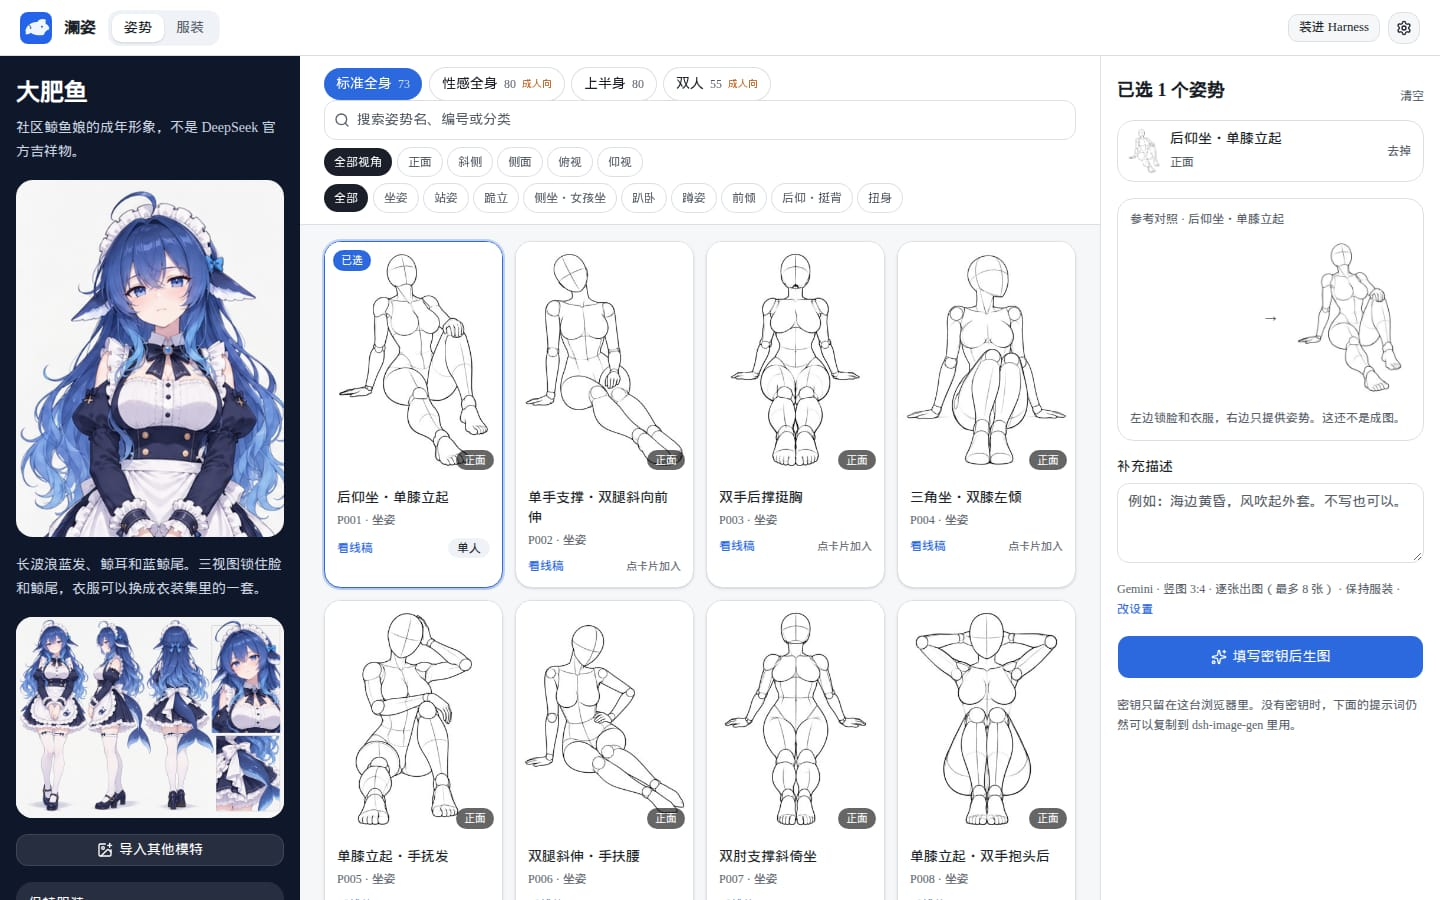
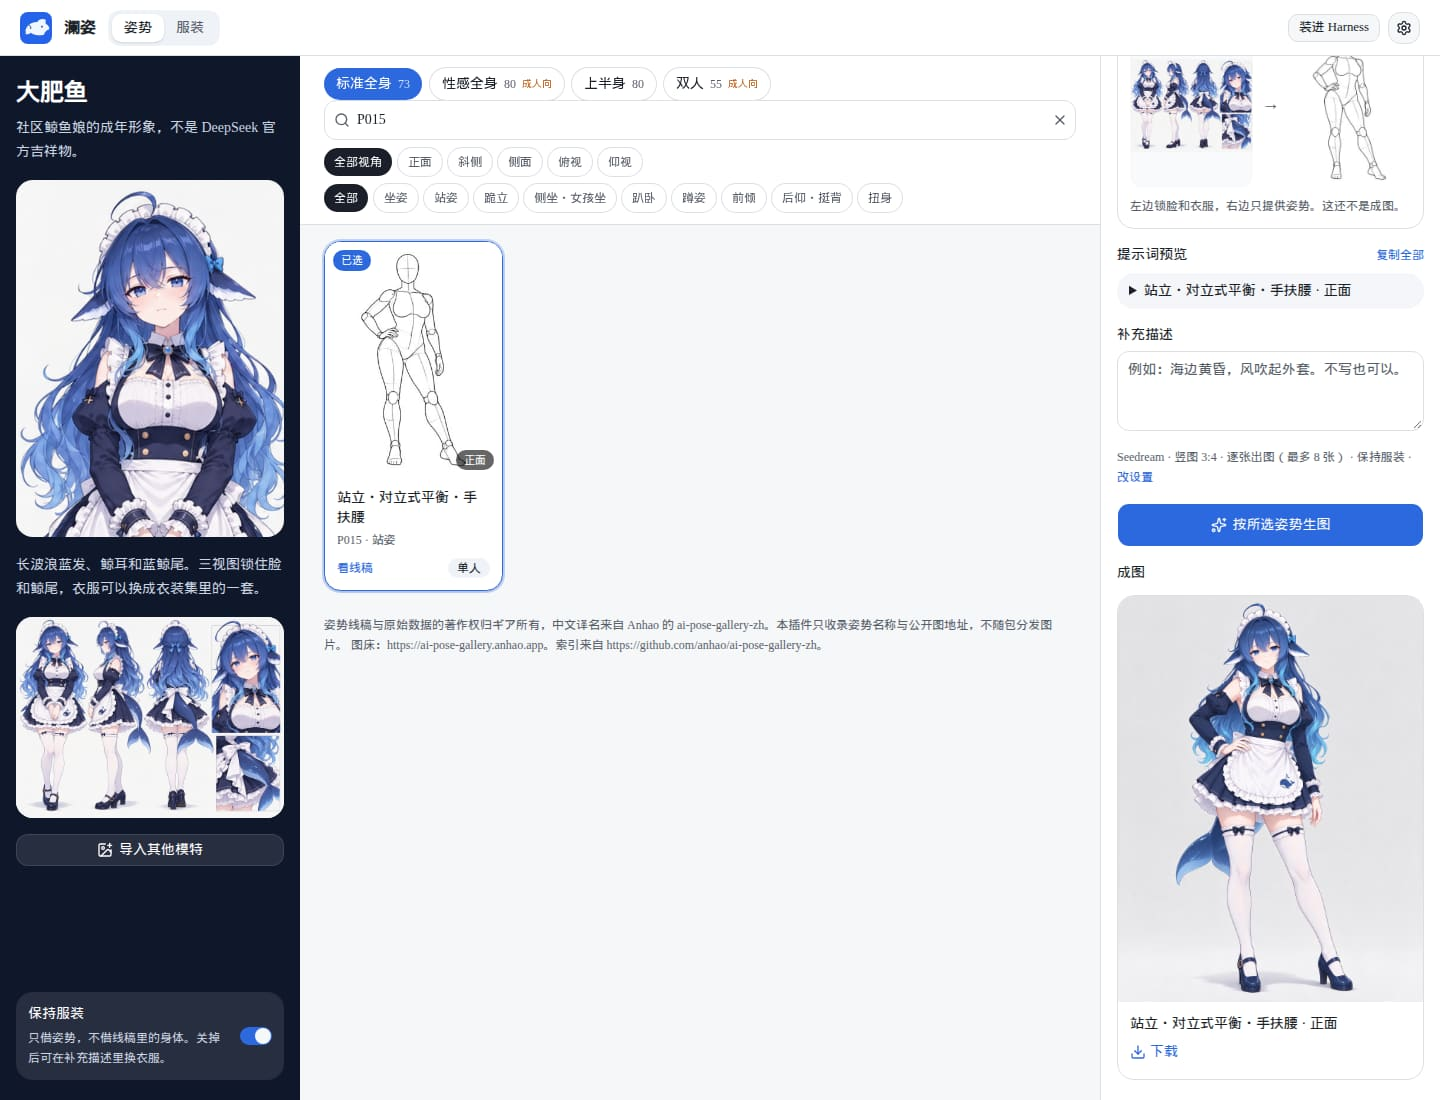
Adapt narrow screens and document the licensed works (#10)
* Adapt narrow screens and document the licensed works.

The Harness pose panel and the studio keep filters and the generate action on screen at phone width. The packaged README links authors and works and includes effect screenshots.

* Show generated results in the README and drop the author credit line.

The effect section now includes Seedream outputs for the same standing pose, with and without a costume change.

---------

diff --git a/README.md b/README.md
@@ -10,7 +10,16 @@ DeepSeek Harness 插件，也是一个可以单独打开的姿势工作室。从
 
 ## 效果
 
-![澜姿工作室：左侧是大肥鱼，中间点选姿势线稿](docs/studio.jpg)
+同一套站立姿势「站立・对立式平衡・手扶腰」。第一张保持女仆装，第二张换成衣装集 SPR-0001。
+
+<p>
+<img src="docs/result-pose.jpg" alt="保持服装：大肥鱼按站立姿势出的图" width="360">
+<img src="docs/result-costume.jpg" alt="换装：同一姿势换成 SPR-0001 的春装" width="360">
+</p>
+
+选了「女孩坐・双手抱头后」，并换成 SPR-0045 之后，成图出现在右侧。
+
+![澜姿工作室：姿势和服装都已选中，右侧是成图](docs/studio-live.jpg)
 
 窄屏时模特收在顶上，分类用下拉，出图按钮留在底部。
 
@@ -80,7 +89,7 @@ npm run typecheck
 
 ## 许可
 
-澜姿自己的程序使用 [MIT License](./LICENSE)，版权所有 (c) 2026 [wzc520pyfm](https://github.com/wzc520pyfm)。数据来源和各自的版权写在 [`shared/license.mjs`](./shared/license.mjs)，并附在 [`LICENSE`](./LICENSE) 末尾。
+澜姿自己的程序使用 [MIT License](./LICENSE)。数据来源和各自的版权写在 [`shared/license.mjs`](./shared/license.mjs)，并附在 [`LICENSE`](./LICENSE) 末尾。
 
 这份 MIT 许可只覆盖程序。下面的作者和作品另外标注，图片按需读取、不放进仓库：
 
